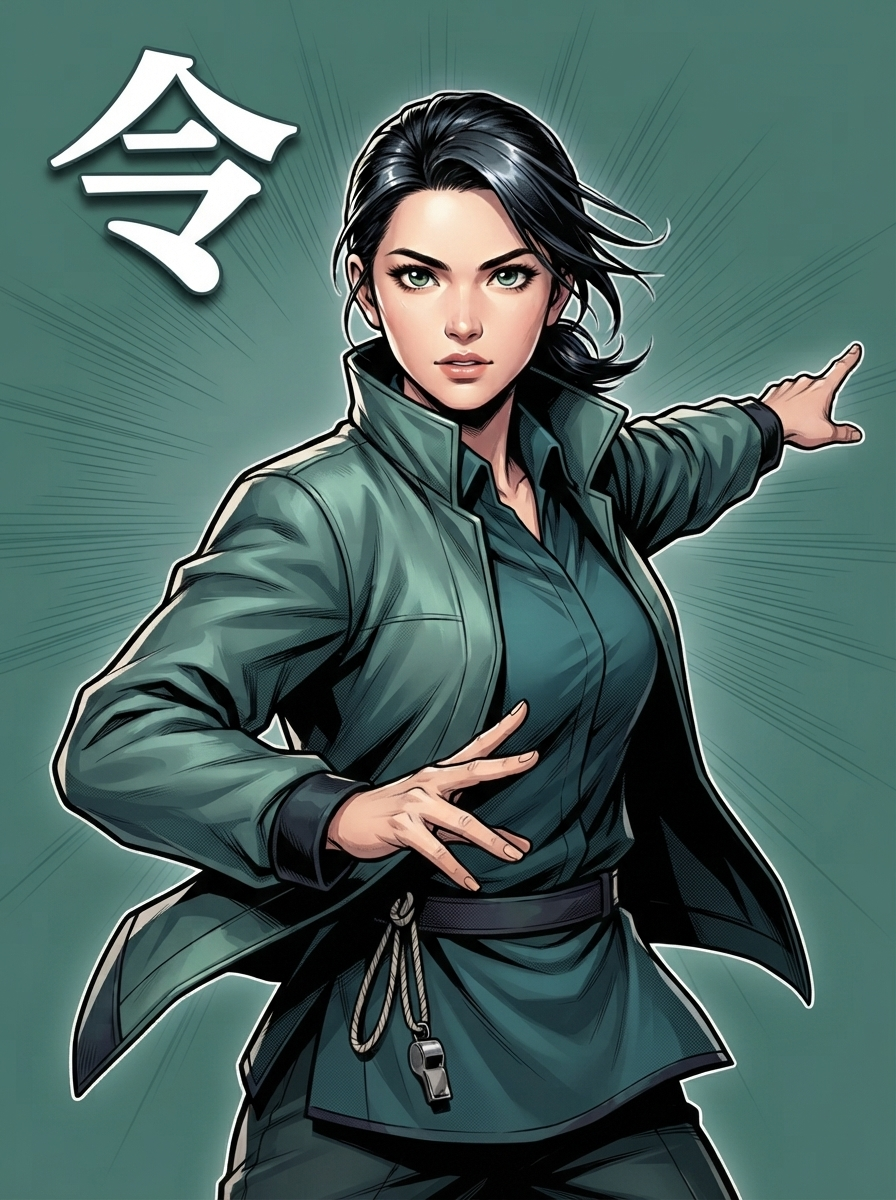
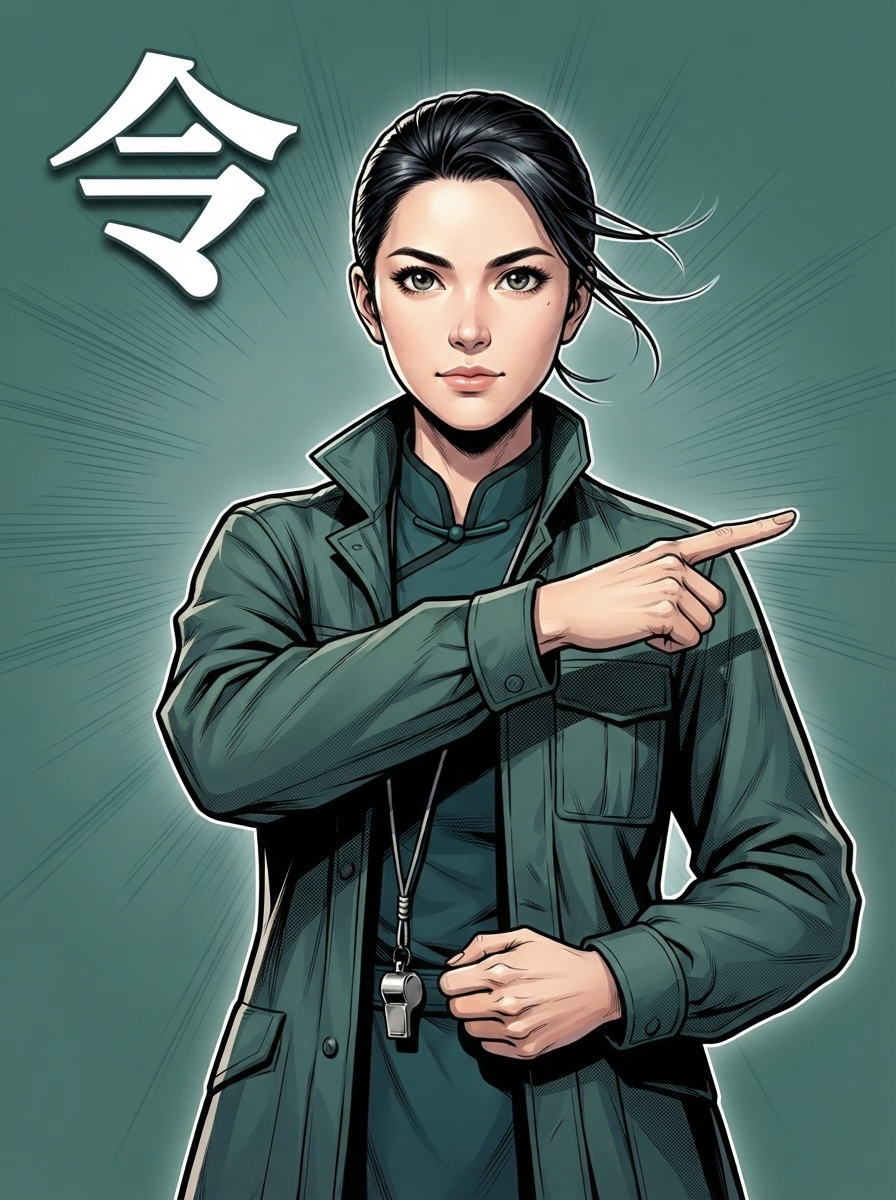
Polish tempest portraits for fang_lan and qing_he (#18)
Tighten storm-urgency prompts, fix solo-hand anatomy for the healer,
and keep --force --only regenerations anchored to the existing style sheet.

diff --git a/art/gen_portraits.py b/art/gen_portraits.py
@@ -171,12 +171,15 @@ steadying an unseen sluice plate. EXPRESSION: grim focus — prayer will not hol
     "fang_lan": dict(
         onom="令", who="""\
 A beautiful, commanding Taiwanese village headwoman of thirty-eight — clear sharp eyes, neat dark hair
-pulled back for work, strong graceful posture. Practical authority; everyone calls her 美華姐.
-MODESTY IS MANDATORY: high collar, full sleeves. Sea-green practical jacket over a darker teal blouse,
-ink-dark trim; a cloth tally cord or whistle at her belt — no frills.
-POSE: half-turned toward the viewer, one arm flung out pointing inland (toward high ground), the other
-hand open as if counting people to move. EXPRESSION: firm, urgent, compassionate without softness —
-she cannot argue with the sea, only with people.""",
+pulled tightly back for work with a few wind-tossed strands, strong graceful posture that reads mid-thirties
+not twenties. Practical authority; everyone calls her 美華姐.
+MODESTY IS MANDATORY: high collar, full sleeves. Sea-green practical field jacket over a darker teal blouse,
+ink-dark trim; a silver whistle on a cord at her belt — no frills, no fashion posing.
+HANDS MUST BE ANATOMICALLY CORRECT: five clear fingers each, natural knuckles, no fused or extra digits.
+POSE: three-quarter bust, body angled; RIGHT ARM extended straight, INDEX FINGER pointing inland toward
+high ground (simple clear point — no splayed fingers); LEFT HAND clenched around the whistle cord at her
+waist. EXPRESSION: firm, urgent, compassionate without softness — she cannot argue with the sea, only
+with people.""",
     ),
     "a_qian": dict(
         onom="潮", who="""\
@@ -190,12 +193,20 @@ the rope. EXPRESSION: urgent grin, alive to danger — ships still at sea means 
     ),
     "qing_he": dict(
         onom="安", who="""\
-A beautiful Taiwanese herbal healer of thirty-three — warm luminous eyes, gentle but unflinching mouth,
-dark hair tied simply, soft sun-weathered skin. The village comes to her for medicine and calm.
-MODESTY IS MANDATORY: covering clothes to the throat and wrists. Soft sage-and-sand herbalist jacket with
-moss-green trim; a cloth medicine pouch at her side; a sprig of dried herbs tucked near the collar.
-POSE: body angled as if guiding someone uphill, one hand outstretched to steady a panicked neighbour,
-the other clutching the pouch. EXPRESSION: steady compassion — she knows panic kills before the tide does.""",
+A beautiful Taiwanese herbal healer of thirty-three — warm luminous eyes, unflinching mouth, dark hair
+tied in a tight practical bun with wind-whipped loose strands, sun-weathered skin. The village comes to
+her for medicine and calm — but tonight she is evacuating people, not posing for a portrait.
+MODESTY IS MANDATORY: covering clothes to the throat and wrists. PRACTICAL coastal storm kit, NOT elegant
+qipao or embroidered silk: sage-green canvas work jacket over a sand-coloured high-collar shirt, moss
+trim, a cloth medicine pouch strapped at her hip, a folded cloth wrap of dried herbs tucked in a pocket.
+Wind and fine rain should tug at her clothes and hair; storm urgency in the silhouette.
+CRITICAL — SOLO PORTRAIT ONLY: no other people, no other hands entering the frame, no wrist-grabs.
+CRITICAL — HAND ANATOMY: exactly five fingers on each of HER hands, clear knuckles, no fused digits,
+no extra fingers. Prefer simple closed grips over open splayed fingers.
+POSE: mid-stride climbing toward high ground, torso twisted looking back over her shoulder as if calling
+others to follow; ONE hand raised in a clear beckoning / follow-me gesture (palm open, five fingers),
+the OTHER hand clutching the medicine pouch tight against her hip. EXPRESSION: focused urgency with
+steady compassion — panic kills before the tide; she is moving people NOW.""",
     ),
     "gu_chao": dict(
         onom="望", who="""\
@@ -282,11 +293,16 @@ def main() -> None:
     out_dir.mkdir(parents=True, exist_ok=True)
     client = genai.Client()
 
-    # 錨圖排第一個，後面的人才有東西可以對齊
+    # 錨圖排第一個，後面的人才有東西可以對齊。
+    # --force 只表示「這次要重畫選定角色」；錨圖若已在磁碟上且這次沒重畫它，
+    # 仍要讀進來當風格參考，否則 --only 重畫會脫隊。
     order = sorted(agents, key=lambda a: (a["id"] != args.anchor,))
     anchor_bytes: bytes | None = None
     anchor_path = out_dir / f"{args.anchor}.png"
-    if anchor_path.exists() and not args.force:
+    regenerating_anchor = args.force and (
+        not args.only or args.anchor in args.only
+    )
+    if anchor_path.exists() and not regenerating_anchor:
         anchor_bytes = anchor_path.read_bytes()
 
     made = skipped = failed = 0
